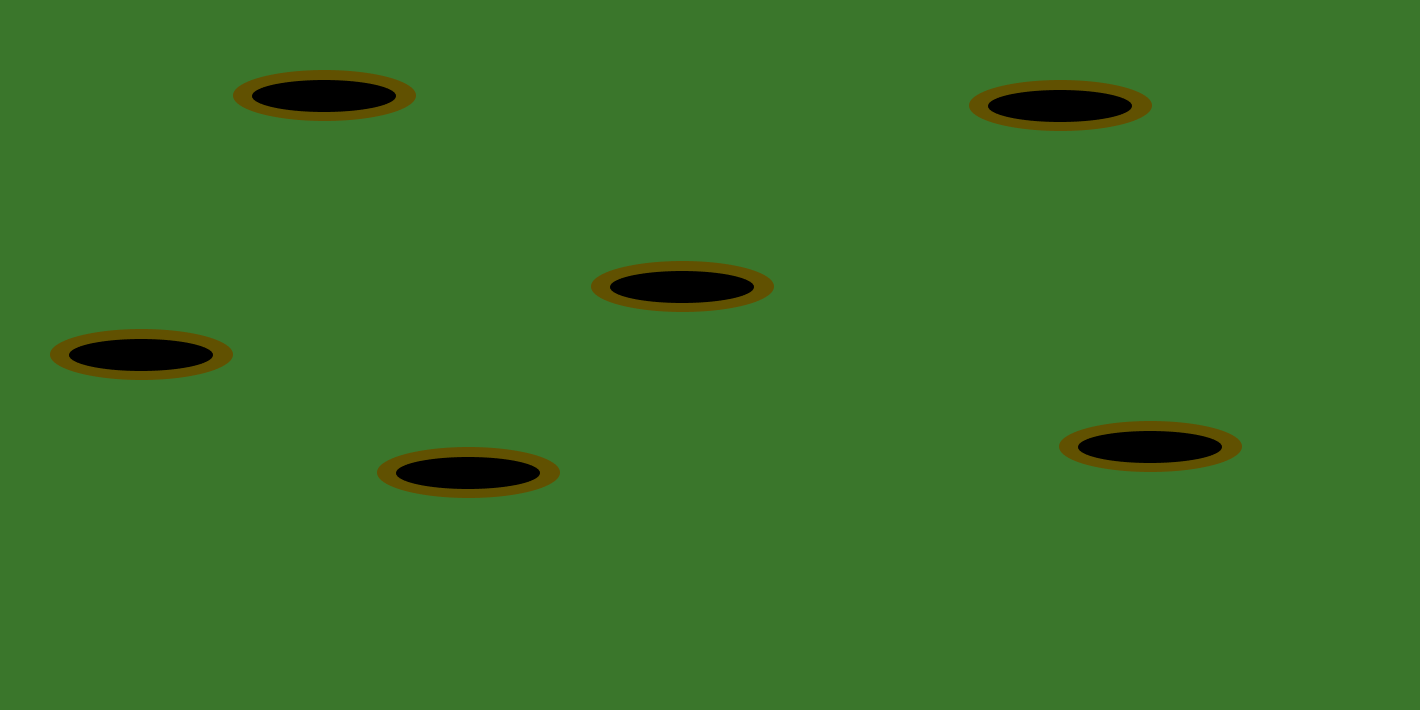
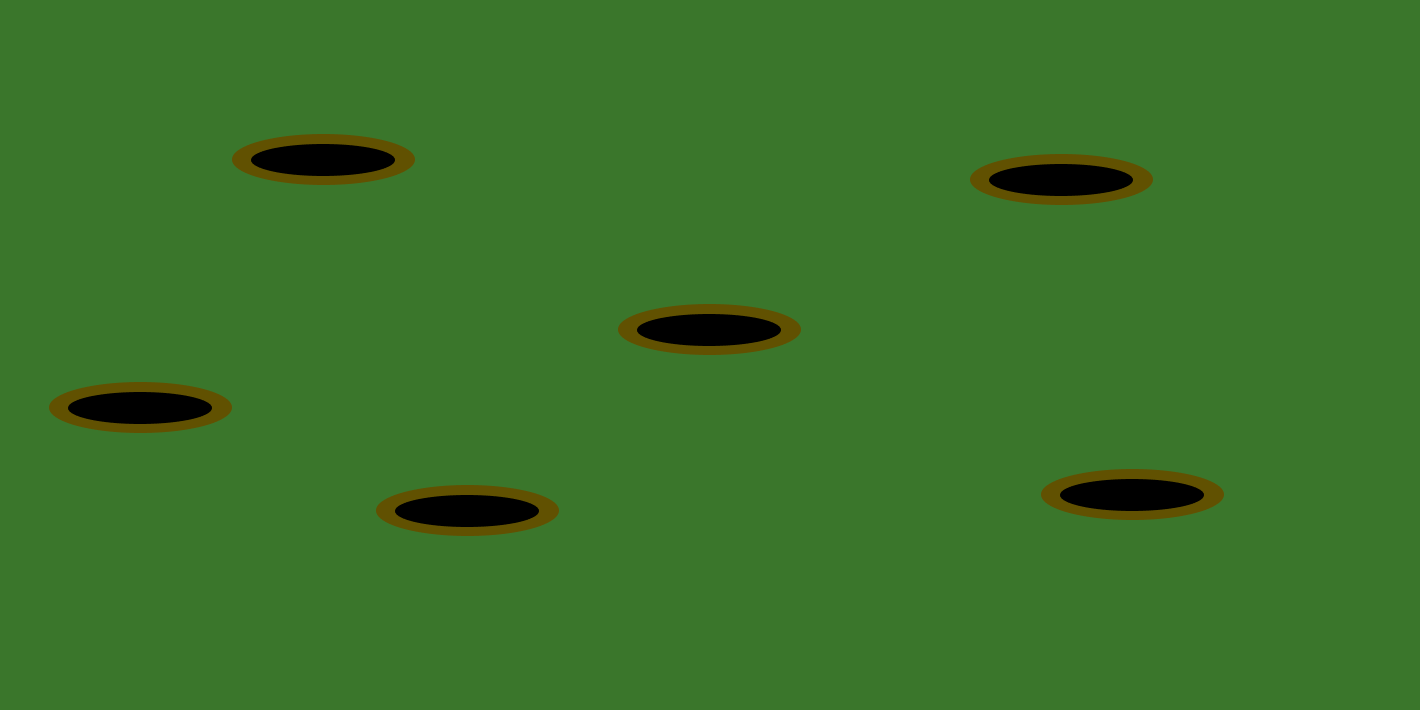
background finish

diff --git a/index.html b/index.html
@@ -9,15 +9,9 @@
 </head>
 <body>
     <div class="complet">
-        <img class="fondo" src="assets(victor)/play-background.png" alt="play-backgotund"/>
-        <img class="up-to-face3" src="assets(victor)/up-to-face.png" alt="play-backgotund"/>
-        <img class="up-to-face1" src="assets(victor)/up-to-face.png" alt="play-backgotund"/>
-        <img class="up-to-face2" src="assets(victor)/up-to-face.png" alt="play-backgotund"/>
-        <img class="up-to-face4" src="assets(victor)/up-to-face.png" alt="play-backgotund"/>
-        <img class="up-to-face5" src="assets(victor)/up-to-face.png" alt="play-backgotund"/>
-        <img class="up-to-face6" src="assets(victor)/up-to-face.png" alt="play-backgotund"/>
+        <img class="fondo" src="assets(victor)/play-background.png" alt="fondo-juego">
+        <img class="up-to-face" src="assets(victor)/up-to-face.png" alt="escondite">  
     </div>
-    
 </body>
     
 </html>

diff --git a/style-victor.css b/style-victor.css
@@ -1,41 +1,9 @@
 body {
     width: 1420px;
     height: 710px;
+    background-color: red;
 }
 
-
-.fondo {
-    width: 1420px;
-    height: 710px;
-}
-
-.up-to-face3 {
-    margin-left: -1374px;
-    margin-bottom: 160px;
-}
-
-.up-to-face1 {
-   margin-bottom: 417px;
-   margin-left: -4px;
-}
-
-.up-to-face2 {
-   margin-left: 549px;
-   margin-bottom: 406px;
-}
-
- .up-to-face4 {
-    margin-left: -565px;
-    margin-bottom: 226px;
-
-}
-
-.up-to-face5 {
-   margin-left: -401px;
-   margin-bottom: 40px;
- }
-
-.up-to-face6 {
-   margin-left: 495px;
-   margin-bottom: 66px;
+.up-to-face {
+    margin-top: -553px;
 }
